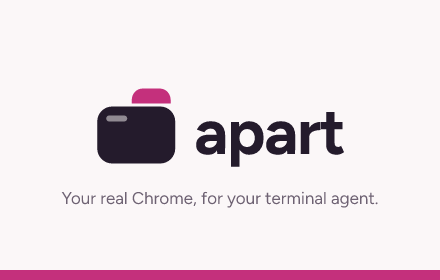
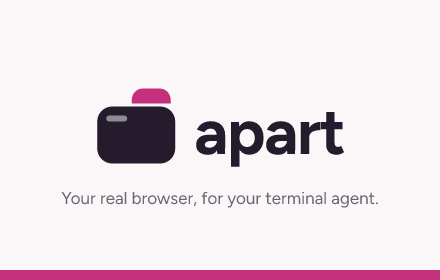
Say browser instead of Chrome in the tagline
apart can now run headless too, so the header, social preview and store
promo tile describe it as your browser rather than Chrome.

Changed region(s): [[0.1477, 0.6857, 0.8568, 0.7429]]

diff --git a/README.md b/README.md
@@ -1,6 +1,6 @@
 <picture>
   <source media="(prefers-color-scheme: dark)" srcset="design/brand/header-dark.svg">
-  <img alt="apart: your real Chrome, for your terminal agent" src="design/brand/header-light.svg" width="100%">
+  <img alt="apart: your real browser, for your terminal agent" src="design/brand/header-light.svg" width="100%">
 </picture>
 
 Drive your real, signed-in Chrome from the terminal.
